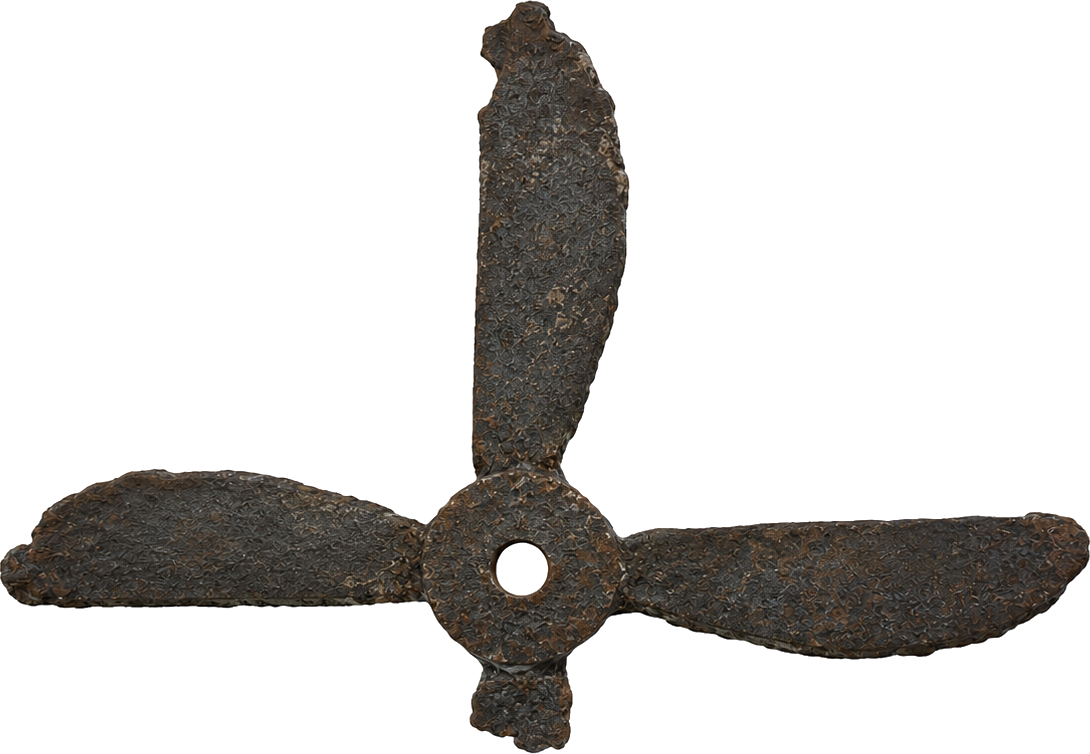
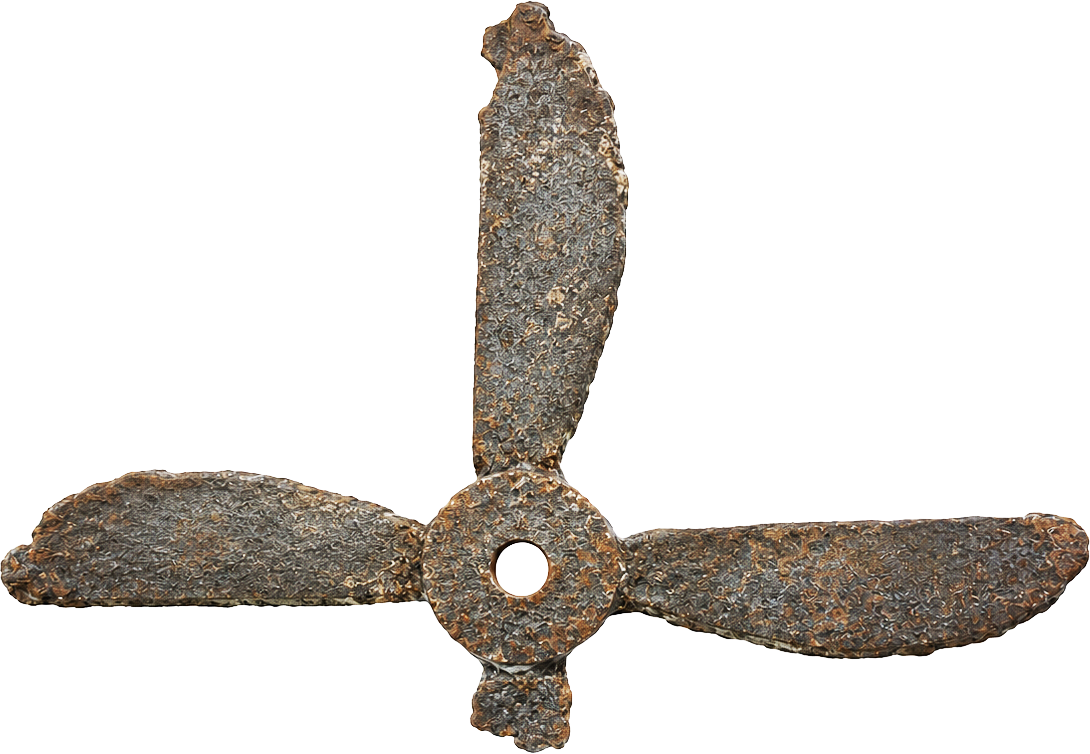
Refine propeller branding on the hero, header, and book page.
Remove the landing headline mark, use the higher-contrast header asset, and show an artist’s impression beside the cover explanation in the preface.

Changed region(s): [[0.0, 0.0, 1.0, 1.0]]

diff --git a/app/book/page.tsx b/app/book/page.tsx
@@ -21,8 +21,15 @@ const FATHER_IMAGE_SRC = "/images/bill-bowskill-elderslie-1929.jpg";
 const FATHER_IMAGE_ALT = "Bill Bowskill, aged six, sitting outside his house in Elderslie, Glasgow, 1929";
 const FATHER_IMAGE_CAPTION = "Elderslie, Glasgow, 1929. Bill Bowskill, 6 years old.";
 
+const PROP_IMAGE_SRC = "/images/broken-propeller-mark.png";
+const PROP_IMAGE_ALT =
+  "Artist’s impression of the corroded broken propeller of the SS Georgette, based on surviving photographs";
+const PROP_IMAGE_CAPTION =
+  "Artist’s impression of the corroded propeller based on surviving photographs.";
+
 const hasWreckImage = existsSync(path.join(process.cwd(), "public", WRECK_IMAGE_SRC.replace(/^\//, "")));
 const hasFatherImage = existsSync(path.join(process.cwd(), "public", FATHER_IMAGE_SRC.replace(/^\//, "")));
+const hasPropImage = existsSync(path.join(process.cwd(), "public", PROP_IMAGE_SRC.replace(/^\//, "")));
 
 export const metadata: Metadata = buildMetadata({
   absoluteTitle: "Author’s Preface — Book Sampler | The Georgette 150th",
@@ -197,6 +204,25 @@ export default function BookSamplerPage() {
             Redgate beach. Exactly where it is and what became of the other propeller are now part of the mystery and
             the legend of the SS Georgette.
           </p>
+
+          <figure className={`${styles.figure} ${styles.figureProp}`}>
+            {hasPropImage ? (
+              <div className={styles.figureImageWrap}>
+                <Image
+                  src={PROP_IMAGE_SRC}
+                  alt={PROP_IMAGE_ALT}
+                  fill
+                  className={styles.figureImageContain}
+                  sizes="(max-width: 767px) 100vw, 28rem"
+                />
+              </div>
+            ) : (
+              <div className={styles.figurePlaceholder} role="img" aria-label={PROP_IMAGE_ALT}>
+                <p>Photograph to be added</p>
+              </div>
+            )}
+            <figcaption className={styles.figcaption}>{PROP_IMAGE_CAPTION}</figcaption>
+          </figure>
         </FadeInSection>
 
         <nav className={styles.footerNav} aria-label="Related pages">

diff --git a/components/HeroVideo.tsx b/components/HeroVideo.tsx
@@ -1,4 +1,3 @@
-import Image from "next/image";
 import Link from "next/link";
 
 import styles from "./HeroVideo.module.css";
@@ -52,17 +51,7 @@ export function HeroVideo({
       <div className={styles.overlay} />
       <div className={`container ${styles.content}`}>
         <p className="eyebrow">MARGARET RIVER REGION OPEN STUDIOS · 12–27 SEPTEMBER 2026</p>
-        <h1 className={`heading-display ${styles.headline}`}>
-          <Image
-            src="/images/broken-propeller-mark.png"
-            alt=""
-            width={96}
-            height={66}
-            className={styles.brandMark}
-            priority
-          />
-          <span>{headline}</span>
-        </h1>
+        <h1 className="heading-display">{headline}</h1>
         {byline ? <p className={styles.byline}>{byline}</p> : null}
         <p className={styles.subheadline}>{subheadline}</p>
         <nav className={styles.explore} aria-label="Explore the site">

diff --git a/components/HeroVideo.module.css b/components/HeroVideo.module.css
@@ -34,20 +34,9 @@
   padding-bottom: 4rem;
 }
 
-.headline {
-  display: flex;
-  align-items: flex-start;
-  gap: 0.55em;
+.content h1 {
   margin: 0 0 0.8rem;
-  max-width: min(26ch, 100%);
-}
-
-.brandMark {
-  flex-shrink: 0;
-  width: auto;
-  height: 0.78em;
-  margin-top: 0.08em;
-  object-fit: contain;
+  max-width: min(18ch, 100%);
 }
 
 .content p {

diff --git a/app/book/page.module.css b/app/book/page.module.css
@@ -46,8 +46,22 @@
   aspect-ratio: 3 / 4;
 }
 
+.figureProp {
+  max-width: 28rem;
+}
+
+.figureProp .figureImageWrap {
+  aspect-ratio: 3 / 2;
+  border: none;
+  background: transparent;
+}
+
 .figureImage {
   object-fit: cover;
+}
+
+.figureImageContain {
+  object-fit: contain;
 }
 
 .figurePlaceholder {
